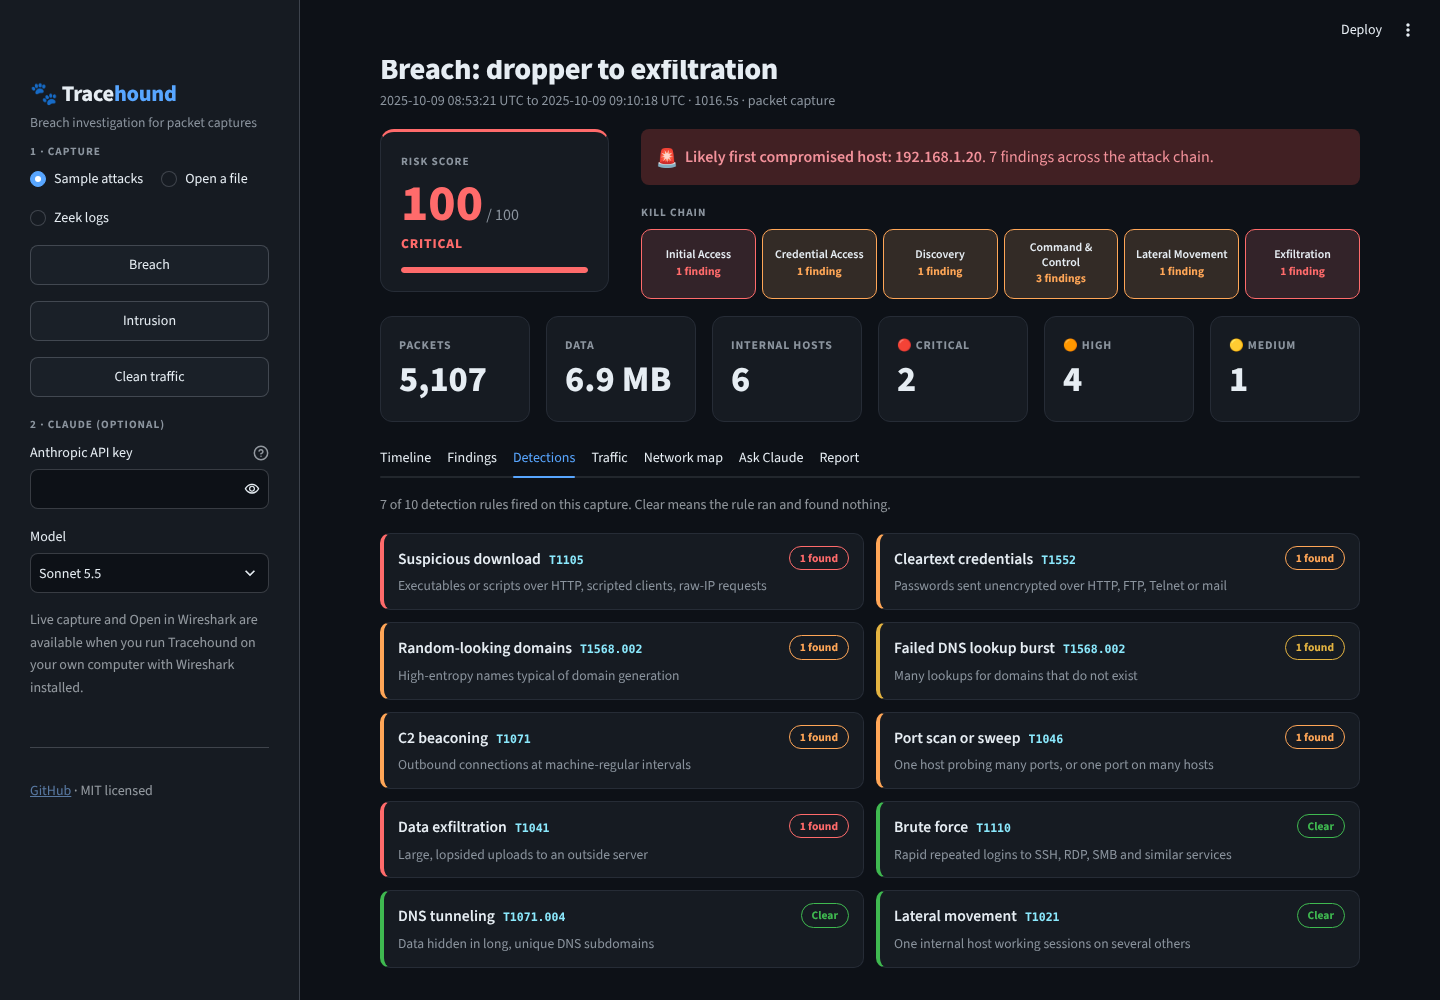
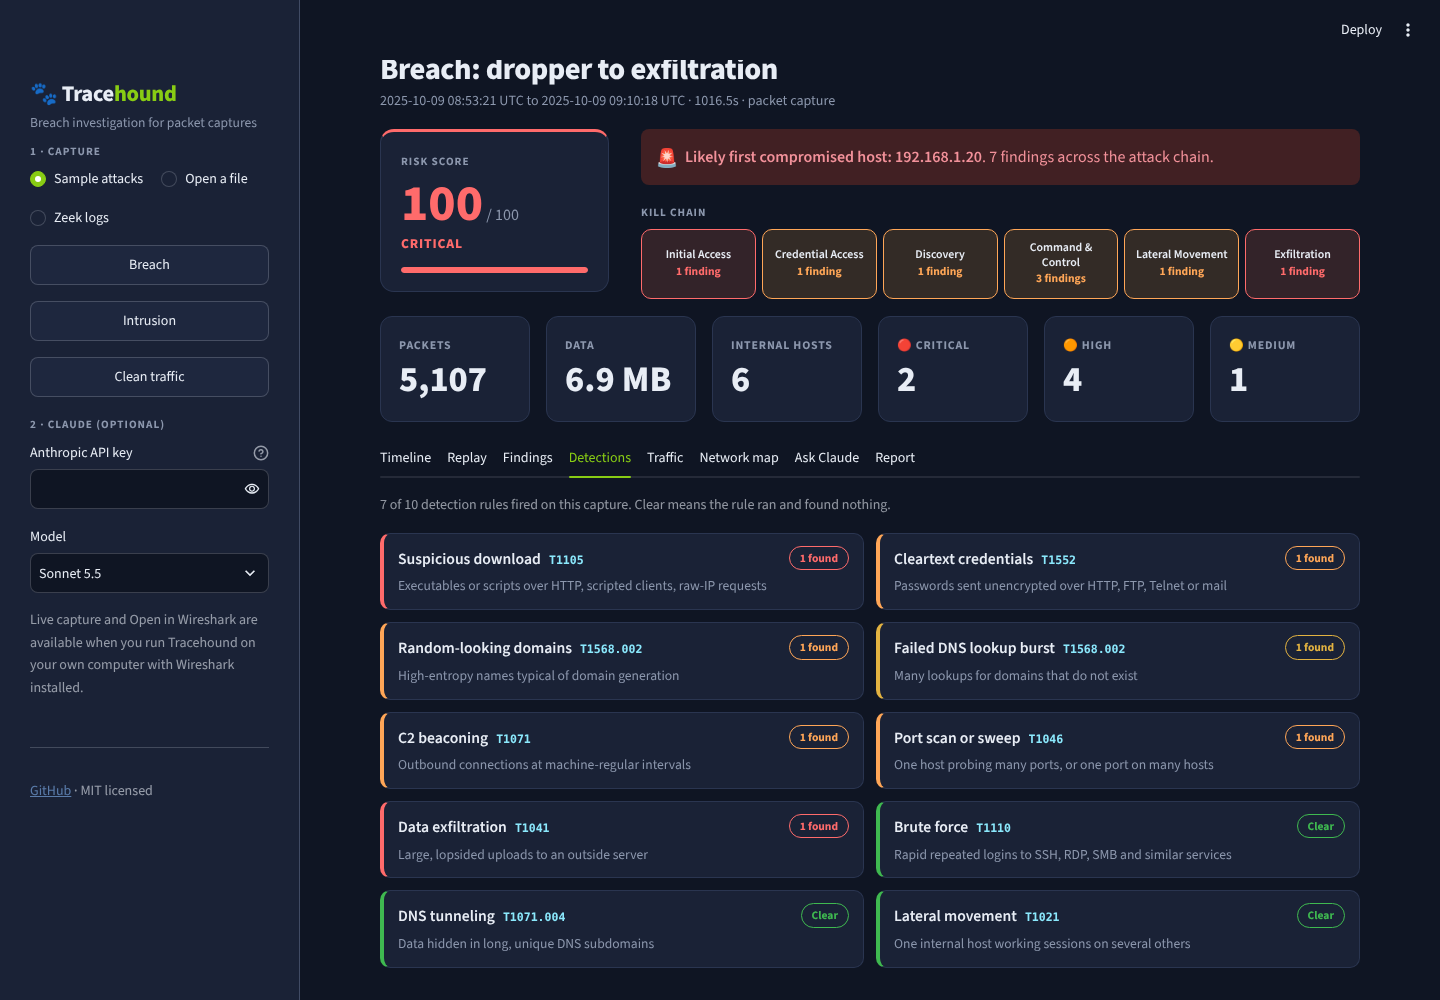
Dashboard and project page: TryHackMe-style navy and lime theme, cards with buttons, no duplicate sample buttons
Claude-Session: https://claude.ai/code/session_01XNKvePKtsWCBsU6V3G7fb6

Changed region(s): [[0.3125, 0.434, 0.625, 0.465], [0.0938, 0.093, 0.125, 0.124], [0.0, 0.155, 0.0312, 0.186]]

diff --git a/index.html b/index.html
@@ -6,7 +6,7 @@
 <title>Tracehound - AI-assisted breach investigation for packet captures</title>
 <meta name="description" content="Give Tracehound a .pcap and it finds the attack, builds the timeline, and proves every claim with packet evidence you can check in Wireshark.">
 <style>
-  :root { --bg:#0d1117; --panel:#161b22; --line:#262c36; --text:#e6edf3; --muted:#8b949e; --accent:#58a6ff;
+  :root { --bg:#0f1523; --panel:#1a2236; --line:#2a3550; --text:#e8edf5; --muted:#8c97ad; --accent:#88cc14;
           --crit:#ff6b6b; --high:#ffb86c; --med:#f1fa8c; --ok:#50fa7b; --mono:ui-monospace,SFMono-Regular,Menlo,Consolas,monospace; }
   * { box-sizing:border-box; }
   html { scroll-behavior:smooth; }
@@ -14,7 +14,7 @@
   a { color:var(--accent); text-decoration:none; }
   a:hover { text-decoration:underline; }
   .wrap { max-width:1040px; margin:0 auto; padding:0 24px; }
-  nav { border-bottom:1px solid var(--line); position:sticky; top:0; background:rgba(13,17,23,.92); backdrop-filter:blur(8px); z-index:5; }
+  nav { border-bottom:1px solid var(--line); position:sticky; top:0; background:rgba(15,21,35,.92); backdrop-filter:blur(8px); z-index:5; }
   nav .wrap { display:flex; align-items:center; justify-content:space-between; height:56px; }
   nav .brand { font-weight:700; color:var(--text); letter-spacing:.2px; }
   nav .links a { margin-left:22px; color:var(--muted); font-size:14px; }
@@ -23,7 +23,7 @@
   .hero h1 { font-size:56px; line-height:1.1; margin:0 0 16px; letter-spacing:-1px; }
   .hero p.lead { font-size:20px; color:var(--muted); max-width:720px; margin:0 auto 28px; }
   .btn { display:inline-block; padding:10px 20px; border-radius:8px; font-weight:600; font-size:15px; margin:0 6px; border:1px solid var(--line); color:var(--text); }
-  .btn.primary { background:var(--accent); color:#0d1117; border-color:var(--accent); }
+  .btn.primary { background:var(--accent); color:#0f1523; border-color:var(--accent); }
   .btn:hover { text-decoration:none; filter:brightness(1.1); }
   .term { background:#0a0d12; border:1px solid var(--line); border-radius:12px; overflow:hidden; max-width:880px; margin:36px auto 0; text-align:left; box-shadow:0 20px 60px rgba(0,0,0,.4); }
   .term .bar { background:#1b2029; padding:10px 14px; display:flex; gap:7px; align-items:center; }

diff --git a/src/tracehound/ui.py b/src/tracehound/ui.py
@@ -8,8 +8,8 @@ from __future__ import annotations
 import html
 
 # One palette shared with the charts and the project page
-COLOR = {"critical": "#ff6b6b", "high": "#ffa657", "medium": "#e3b341", "low": "#8b949e",
-         "ok": "#3fb950", "accent": "#58a6ff", "dim": "#30363d"}
+COLOR = {"critical": "#ff6b6b", "high": "#ffa657", "medium": "#e3b341", "low": "#8c97ad",
+         "ok": "#3fb950", "accent": "#88cc14", "dim": "#2a3550"}
 SEVERITY_RANK = {"critical": 4, "high": 3, "medium": 2, "low": 1}
 SEVERITY_WEIGHT = {"critical": 30, "high": 15, "medium": 6, "low": 2}
 
@@ -109,53 +109,57 @@ def sample_card_html(title: str, blurb: str, tags: list[str], size: str = "sampl
 CSS = """<style>
 .block-container { padding-top: 2.2rem; max-width: 1240px; }
 footer { visibility: hidden; }
-[data-testid="stSidebar"] { border-right: 1px solid #262c36; }
-[data-testid="stMetric"] { background:#161b22; border:1px solid #262c36; border-radius:12px; padding:14px 18px; }
-[data-testid="stMetricLabel"] p { color:#8b949e; font-size:.74rem; font-weight:700; text-transform:uppercase; letter-spacing:.07em; }
+[data-testid="stSidebar"] { border-right: 1px solid #2a3550; }
+[data-testid="stMetric"] { background:#1a2236; border:1px solid #2a3550; border-radius:12px; padding:14px 18px; }
+[data-testid="stMetricLabel"] p { color:#8c97ad; font-size:.74rem; font-weight:700; text-transform:uppercase; letter-spacing:.07em; }
 [data-testid="stMetricValue"] { font-weight:800; }
-[data-testid="stExpander"] { border:1px solid #262c36; border-radius:12px; background:#12171e; }
+[data-testid="stExpander"] { border:1px solid #2a3550; border-radius:12px; background:#12171e; }
 button[data-baseweb="tab"] { font-weight:600; }
 .stButton > button, .stDownloadButton > button { border-radius:8px; font-weight:600; }
 
 .th-brand { font-size:1.4rem; font-weight:800; letter-spacing:-.3px; }
-.th-brand i { color:#58a6ff; font-style:normal; }
-.th-tag { color:#8b949e; font-size:.85rem; margin-bottom:.4rem; }
-.th-label { color:#8b949e; font-size:.7rem; font-weight:700; letter-spacing:.09em; text-transform:uppercase; margin:.2rem 0 .45rem; }
+.th-brand i { color:#88cc14; font-style:normal; }
+.th-tag { color:#8c97ad; font-size:.85rem; margin-bottom:.4rem; }
+.th-label { color:#8c97ad; font-size:.7rem; font-weight:700; letter-spacing:.09em; text-transform:uppercase; margin:.2rem 0 .45rem; }
 .th-title { font-size:1.9rem; font-weight:800; letter-spacing:-.5px; line-height:1.2; }
-.th-meta { color:#8b949e; font-size:.88rem; margin:.15rem 0 1rem; }
+.th-meta { color:#8c97ad; font-size:.88rem; margin:.15rem 0 1rem; }
 
 .th-hero h1 { font-size:2.7rem; letter-spacing:-1.2px; margin:0 0 .5rem; line-height:1.1; padding:0; }
-.th-hero p { color:#8b949e; font-size:1.1rem; max-width:780px; margin:0 0 1.4rem; }
-.th-card { background:#161b22; border:1px solid #262c36; border-radius:14px; padding:18px 20px; }
-.th-sample { min-height:250px; }
+.th-hero p { color:#8c97ad; font-size:1.1rem; max-width:780px; margin:0 0 1.4rem; }
+.th-card { background:#1a2236; border:1px solid #2a3550; border-radius:14px; padding:18px 20px; }
+.th-sample { min-height:215px; background:transparent; border:0; padding:6px 4px 0; }
+[data-testid="stVerticalBlockBorderWrapper"]:has(.th-sample) { background:#1a2236; border:1px solid #2a3550; border-radius:14px; padding:8px 14px 14px; }
+button[kind="primary"], button[kind="primary"] p { color:#0f1523 !important; font-weight:700; }
+button[kind="primary"] { background:#88cc14; border-color:#88cc14; }
+button[kind="primary"]:hover { background:#9be31a; border-color:#9be31a; }
 .th-info { min-height:120px; }
 .th-card h4 { margin:0 0 6px; font-size:1.05rem; padding:0; }
-.th-card p { color:#8b949e; font-size:.9rem; margin:0 0 12px; }
-.th-tags span { display:inline-block; font:600 .68rem ui-monospace,Menlo,monospace; background:#0d1117; border:1px solid #262c36;
-  color:#8b949e; border-radius:6px; padding:2px 7px; margin:0 4px 4px 0; }
+.th-card p { color:#8c97ad; font-size:.9rem; margin:0 0 12px; }
+.th-tags span { display:inline-block; font:600 .68rem ui-monospace,Menlo,monospace; background:#0f1523; border:1px solid #2a3550;
+  color:#8c97ad; border-radius:6px; padding:2px 7px; margin:0 4px 4px 0; }
 
 .th-risk { border-top:3px solid var(--c); }
 .th-risk .num { font-size:3.2rem; font-weight:800; line-height:1; }
-.th-risk .of { color:#8b949e; font-size:1rem; }
+.th-risk .of { color:#8c97ad; font-size:1rem; }
 .th-risk .verdict { font-weight:800; letter-spacing:.06em; text-transform:uppercase; font-size:.85rem; margin-top:4px; }
-.th-bar { height:6px; background:#262c36; border-radius:4px; overflow:hidden; margin-top:12px; }
+.th-bar { height:6px; background:#2a3550; border-radius:4px; overflow:hidden; margin-top:12px; }
 .th-bar i { display:block; height:100%; border-radius:4px; }
 
 .th-chain { display:flex; gap:6px; margin-bottom:1.1rem; }
-.th-stage { flex:1; min-width:0; border:1px solid #262c36; background:#12171e; border-radius:10px; padding:10px 6px; text-align:center;
+.th-stage { flex:1; min-width:0; border:1px solid #2a3550; background:#12171e; border-radius:10px; padding:10px 6px; text-align:center;
   display:flex; flex-direction:column; justify-content:center; }
-.th-stage b { display:block; font-size:.74rem; line-height:1.25; color:#8b949e; }
+.th-stage b { display:block; font-size:.74rem; line-height:1.25; color:#8c97ad; }
 .th-stage span { font-size:.72rem; color:#6e7681; }
 .th-stage.on { border-color:var(--c); background:color-mix(in srgb, var(--c) 14%, #12171e); }
-.th-stage.on b { color:#e6edf3; }
+.th-stage.on b { color:#e8edf5; }
 .th-stage.on span { color:var(--c); font-weight:700; }
 
 .th-grid { display:grid; grid-template-columns:repeat(2, 1fr); gap:12px; }
-.th-rule { display:flex; justify-content:space-between; gap:12px; align-items:flex-start; background:#161b22;
-  border:1px solid #262c36; border-left:4px solid var(--c); border-radius:10px; padding:12px 14px; }
+.th-rule { display:flex; justify-content:space-between; gap:12px; align-items:flex-start; background:#1a2236;
+  border:1px solid #2a3550; border-left:4px solid var(--c); border-radius:10px; padding:12px 14px; }
 .th-rule b { font-size:.98rem; }
 .th-rule .mitre { font:600 .72rem ui-monospace,Menlo,monospace; color:#8be9fd; margin-left:8px; }
-.th-rule p { margin:4px 0 0; color:#8b949e; font-size:.85rem; }
+.th-rule p { margin:4px 0 0; color:#8c97ad; font-size:.85rem; }
 .th-chip { font-size:.72rem; font-weight:700; border-radius:999px; padding:2px 10px; white-space:nowrap; border:1px solid var(--c); color:var(--c); }
 
 @media (max-width:820px) {

diff --git a/src/tracehound/dashboard.py b/src/tracehound/dashboard.py
@@ -177,10 +177,12 @@ with st.sidebar:
             if mon and mon.error():
                 st.error("Capture stopped with an error:\n\n" + mon.error())
         st.caption("Only capture networks you own or are allowed to monitor.")
-    else:
+    elif st.session_state.pcap:
         for name, spec in SAMPLES.items():
             if st.button(spec["short"], key=f"side_{name}", width="stretch", help=spec["blurb"]):
                 load_sample(name)
+    else:
+        st.caption("Pick a sample attack from the cards on the right.")
 
     st.markdown('<div class="th-label">2 &middot; Claude (optional)</div>', unsafe_allow_html=True)
     key = st.text_input("Anthropic API key", type="password", value=os.environ.get("ANTHROPIC_API_KEY", ""),
@@ -231,7 +233,7 @@ if not st.session_state.pcap:
                 unsafe_allow_html=True)
     cols = st.columns(len(SAMPLES), gap="medium")
     for col, (name, spec) in zip(cols, SAMPLES.items()):
-        with col:
+        with col, st.container(border=True):
             st.markdown(ui.sample_card_html(spec["title"], spec["blurb"], spec["tags"]), unsafe_allow_html=True)
             if st.button(f"Analyze {spec['short'].lower()}", key=f"main_{name}", type="primary" if name == "breach" else "secondary",
                          width="stretch"):

diff --git a/src/tracehound/cli.py b/src/tracehound/cli.py
@@ -76,8 +76,8 @@ def main(argv: list[str] | None = None) -> int:
         app = Path(__file__).with_name("dashboard.py")
         cmd = [sys.executable, "-m", "streamlit", "run", str(app), "--server.port", str(args.port),
                "--browser.gatherUsageStats", "false", "--server.fileWatcherType", "none",  # no watchdog nag
-               "--theme.base", "dark", "--theme.primaryColor", "#58a6ff", "--theme.backgroundColor", "#0d1117",
-               "--theme.secondaryBackgroundColor", "#161b22", "--theme.textColor", "#e6edf3"]
+               "--theme.base", "dark", "--theme.primaryColor", "#88cc14", "--theme.backgroundColor", "#0f1523",
+               "--theme.secondaryBackgroundColor", "#1a2236", "--theme.textColor", "#e8edf5"]
         print("Starting Tracehound dashboard... press Ctrl+C here to stop it.")
         try:
             return subprocess.call(cmd)

diff --git a/src/tracehound/charts.py b/src/tracehound/charts.py
@@ -9,9 +9,9 @@ import plotly.graph_objects as go
 from .investigation import Investigation, STAGE_ORDER
 from .store import is_internal
 
-SERIES_BLUE = "#58a6ff"
-MUTED = "#8b949e"
-BG = "#0d1117"  # page background, used for marker outlines
+SERIES_BLUE = "#88cc14"
+MUTED = "#8c97ad"
+BG = "#0f1523"  # page background, used for marker outlines
 # Severity is a status, so it uses the reserved status palette and always ships with a text label
 SEVERITY_COLOR = {"critical": "#ff6b6b", "high": "#ffa657", "medium": "#e3b341", "low": MUTED}
 SEVERITY_ICON = {"critical": "Critical", "high": "High", "medium": "Medium", "low": "Low"}
